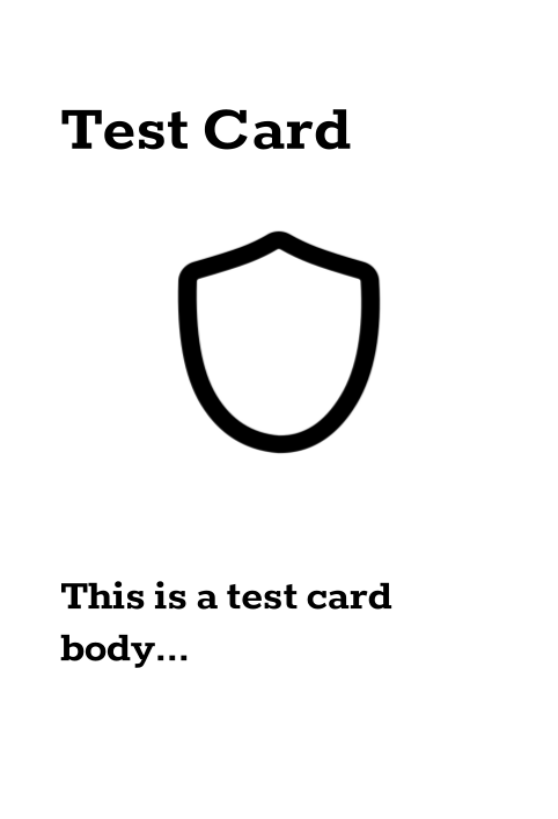
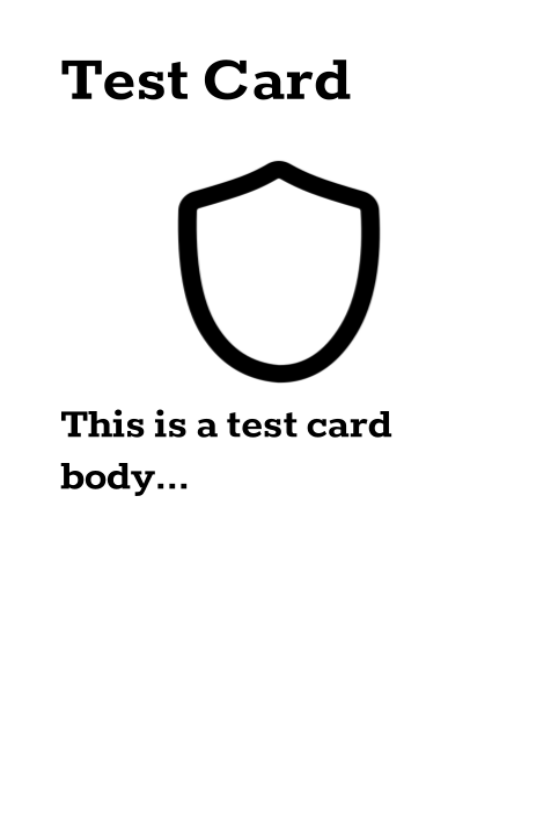
Switched to download via Google API.

Changed region(s): [[0.0914, 0.0611, 0.7007, 0.6105], [0.0914, 0.7021, 0.7007, 0.8242], [0.0914, 0.0611, 0.3351, 0.1832]]

diff --git a/index.js b/index.js
@@ -4,7 +4,7 @@ const rnd = require("./randomizer.js");
 const Cardistry = require('./cardistry.js');
 const {Card, BoundaryRect, GridCard, RotatedTextBox, TextBox, ImageManager} = require("./cardistry");
 const {loadImage} = require("canvas");
-const {getAuthToken, getSheet, getSheetValues} = require('./gsheets');
+const {getAuthToken, getSheet, getSheetValues, download} = require('./gutil');
 
 const SHEET_ID = '13Of7uumH7h1DKWzTMfgaTGnJmjlnC7CSuH2TnDdxsiI';
 
@@ -35,93 +35,17 @@ const im = new ImageManager();
 // create needed directories
 if(!fs.existsSync('var')) fs.mkdirSync('var');
 
-
-const card_bleed = 0.125;
-const card_safe = 0.125;
-const card_height = 2.48 + card_bleed * 2;
-const card_width = 1.61 + card_bleed * 2;
-const card_extra = 0.05;
-const text_size = (card_height - 0.6) / 10.5;
-const text_margin = text_size * 0.23;
-const d6_width = 0.5;
-const d6_height = 0.5;
-
-class RoadWarriorItemCard extends Cardistry.Card {
-    constructor(dpi, bgColor, title, body, img) {
-        super(card_width, card_height, card_bleed, card_safe, card_extra, bgColor, dpi);
-
-        this.img = img;
-
-        // title
-        this.addElement(new Cardistry.TextBox(
-            this,
-            title,
-            'Rokkitt Bold',
-            '000000',
-            text_size,
-            0,
-            'left',
-            'middle',
-            this.getDrawableBoundRect().cutBottomPct(0.8),
-            this.bgColor));
-        this.addElement(new Cardistry.ImageBox(
-            this,
-            this.getDrawableBoundRect().cutPct(0, 0, 0.2, 0.4),
-            'FFFFFF',
-            this.img,
-            false
-        ));
-        this.addElement(new Cardistry.TextBox(
-            this,
-            body,
-            'Rokkitt Bold',
-            '000000',
-            text_size * 0.66,
-            0,
-            'left',
-            'middle',
-            this.getDrawableBoundRect().cutTopPct(0.6),
-            this.bgColor
-        ));
-    }
-}
-
-// TODO:  Make dark dice icons white...
-class RoadWarriorDie extends Cardistry.Sheet {
-    constructor(bgColor, faces) {
-        let cards = [];
-        for(const face of faces) {
-            let die = new Cardistry.DieFace(d6_width, d6_height, 0, 0, 0, bgColor, 300, face);
-            die.draw();
-            cards.push(die);
-        }
-
-        super(cards);
-    }
-}
-
-let dice = [];
-async function loadSheet() {
-    try {
-        const auth = await getAuthToken();
-
-        // load all the symbols
-        const symbols_response = await getSheetValues(SHEET_ID,'Symbols', auth);
-        for(const row of symbols_response.data.values.slice(1)) {
-            if(row[1] && row[1].endsWith('view?usp=drive_link')) {
-                im.loadImage(row[0], row[1].replace(/https:\/\/drive\.google\.com\/file\/d\/(.*?)\/.*?\?usp=drive_link/g, "https://drive.google.com/uc?export=view&id=$1"));
-            } else {
-                im.loadImage(row[0], row[1]);
-            }
-        }
-
-        // load all the dice
-        const dice_response = await getSheetValues(SHEET_ID, 'Dice', auth);
-        dice = rowsToObjects(dice_response.data.values);
-    } catch(error) {
-        console.log(error.message, error.stack);
-    }
-}
+const CARD_BLEED = 0.125;
+const CARD_SAFE = 0.125;
+const CARD_HEIGHT = 2.48 + CARD_BLEED * 2;
+const CARD_WIDTH = 1.61 + CARD_BLEED * 2;
+const CARD_EXTRA = 0.05;
+const DEFAULT_CARD_BG_COLOR = 'FFFFFF';
+const DEFAULT_TEXT_SIZE = (CARD_HEIGHT - 0.6) / 10.5;
+const DEFAULT_TEXT_MARGIN = DEFAULT_TEXT_SIZE * 0.23;
+const DEFAULT_DPI = 300;
+const D6_WIDTH = 0.5;
+const D6_HEIGHT = 0.5;
 
 function keysToImages(str) {
     if(str.trim().length == 0) {
@@ -132,7 +56,7 @@ function keysToImages(str) {
 }
 
 function rowsToObjects(rows) {
-    let objects = [];
+    let objects = {};
     let col_names = [];
     for(let col_name of rows[0]) {
         col_names.push(col_name);
@@ -142,9 +66,95 @@ function rowsToObjects(rows) {
         for(let i = 0; i < col_names.length; i++) {
             obj[col_names[i]] = row[i];
         }
-        objects.push(obj);
+        objects[row[0]] = obj;
     }
     return objects;
+}
+
+class RoadWarriorItemCard extends Cardistry.Card {
+    constructor(title, body, img) {
+        super(CARD_WIDTH, CARD_HEIGHT, CARD_BLEED, CARD_SAFE, CARD_EXTRA, DEFAULT_CARD_BG_COLOR, DEFAULT_DPI);
+
+        this.title = title;
+        this.body = body;
+        this.img = img;
+
+        // title
+        this.addElement(new Cardistry.TextBox(
+            this,
+            this.title,
+            'Rokkitt Bold',
+            '000000',
+            DEFAULT_TEXT_SIZE,
+            0,
+            'left',
+            'top',
+            this.getDrawableBoundRect().cutBottomPct(0.9),
+            this.bgColor));
+        this.addElement(new Cardistry.ImageBox(
+            this,
+            this.getDrawableBoundRect().cutPct(0, 0, 0.10, 0.5),
+            'FFFFFF',
+            this.img,
+            false
+        ));
+        this.addElement(new Cardistry.TextBox(
+            this,
+            this.body,
+            'Rokkitt Bold',
+            '000000',
+            DEFAULT_TEXT_SIZE * 0.66,
+            0,
+            'left',
+            'top',
+            this.getDrawableBoundRect().cutTopPct(0.5),
+            this.bgColor
+        ));
+    }
+}
+
+// TODO:  Make dark dice icons white...
+class RoadWarriorDie extends Cardistry.Sheet {
+    constructor(bgColor, faces) {
+        let cards = [];
+        for(const face of faces) {
+            let die = new Cardistry.DieFace(D6_WIDTH, D6_HEIGHT, 0, 0, 0, bgColor, 300, face);
+            die.draw();
+            cards.push(die);
+        }
+
+        super(cards);
+    }
+}
+
+let dice = {};
+let items = {};
+async function loadSheet() {
+    try {
+        const auth = await getAuthToken();
+
+        // load all the symbols
+        const symbols_response = await getSheetValues(SHEET_ID,'Symbols', auth);
+        for(const row of symbols_response.data.values.slice(1)) {
+            if(row[1] && row[1].endsWith('view?usp=drive_link')) {
+                const id = row[1].replace(/https:\/\/drive\.google\.com\/file\/d\/(.*?)\/.*?\?usp=drive_link/g, "$1");
+                const file = await download(id, auth);
+                im.loadImage(row[0], file);
+            } else {
+                im.loadImage(row[0], row[1]);
+            }
+        }
+
+        // load all the dice
+        const dice_response = await getSheetValues(SHEET_ID, 'Dice', auth);
+        dice = rowsToObjects(dice_response.data.values);
+
+        // load all the items
+        const items_response = await getSheetValues(SHEET_ID, 'Items', auth);
+        items = rowsToObjects(items_response.data.values);
+    } catch(error) {
+        console.log(error.message, error.stack);
+    }
 }
 
 async function main() {
@@ -152,8 +162,6 @@ async function main() {
 
     im.ready(() => {
         let card = new RoadWarriorItemCard(
-            300,
-            'FFFFFF',
             'Test Card',
             "This is a test card body...",
             im.get('shield')
@@ -162,7 +170,9 @@ async function main() {
         card.exportScaledPNG('test.png', 1, true);
 
         // generate dice
-        for(let die of dice) {
+        for(let die of Object.values(dice)) {
+            console.log(JSON.stringify(die, null, 2));
+
             let rwd = new RoadWarriorDie(COLORS[die['Color']], [
                 keysToImages(die['Face 1']),
                 keysToImages(die['Face 2']),

diff --git a/gutil.js b/gutil.js
@@ -1,0 +1,62 @@
+const { google } = require('googleapis');
+const keys = require('./keys/key.json');
+const sheets = google.sheets('v4');
+const drive = google.drive('v3');
+const fs = require('fs');
+
+const SCOPES = ['https://www.googleapis.com/auth/spreadsheets', 'https://www.googleapis.com/auth/drive'];
+
+async function getAuthToken() {
+    const auth = new google.auth.GoogleAuth({
+        scopes: SCOPES
+    });
+    const authToken = await auth.fromJSON(keys);
+    return authToken;
+}
+
+async function getSheet(spreadsheetId, auth) {
+    const res = await sheets.spreadsheets.get({
+        spreadsheetId,
+        auth,
+    });
+    return res;
+}
+
+async function getSheetValues(spreadsheetId, sheetName, auth) {
+    const res = await sheets.spreadsheets.values.get({
+        spreadsheetId,
+        auth,
+        range: sheetName
+    });
+    return res;
+}
+
+async function download(id, auth, callback) {
+    try {
+        const res = await drive.files.get({fileId : id, auth: auth});
+        const path = 'tmp/' + res.data.name;
+        const f = fs.createWriteStream(path);
+        const res2 = await drive.files.get({fileId: id, alt: 'media', auth: auth}, {responseType: 'stream'});
+        return await new Promise((resolve, reject) => {
+            res2.data.on('end', () => {
+                console.log("Downloaded: " + path);
+                f.close(() => {
+                    resolve(path)
+                });
+            }).on('error', (err) => {
+                console.error("Failed to download file with ID: " + id);
+                reject(err);
+            }).pipe(f);
+        });
+    } catch(err) {
+        console.error("Failed to download file with ID: " + id);
+        console.error(err);
+    }
+}
+
+module.exports = {
+    getAuthToken,
+    getSheet,
+    getSheetValues,
+    download
+}

diff --git a/cardistry.js b/cardistry.js
@@ -751,7 +751,10 @@ class ImageManager {
                 loadImage(file).then((img) => {
                     that.images.set(key, img);
                     resolve();
-                }).catch(err => console.error('Failed to load image: ' + key + "|" + file));
+                }).catch(err => {
+                    console.error('Failed to load image: ' + key + "|" + file);
+                    console.error(err);
+                });
             }));
         }
     }
